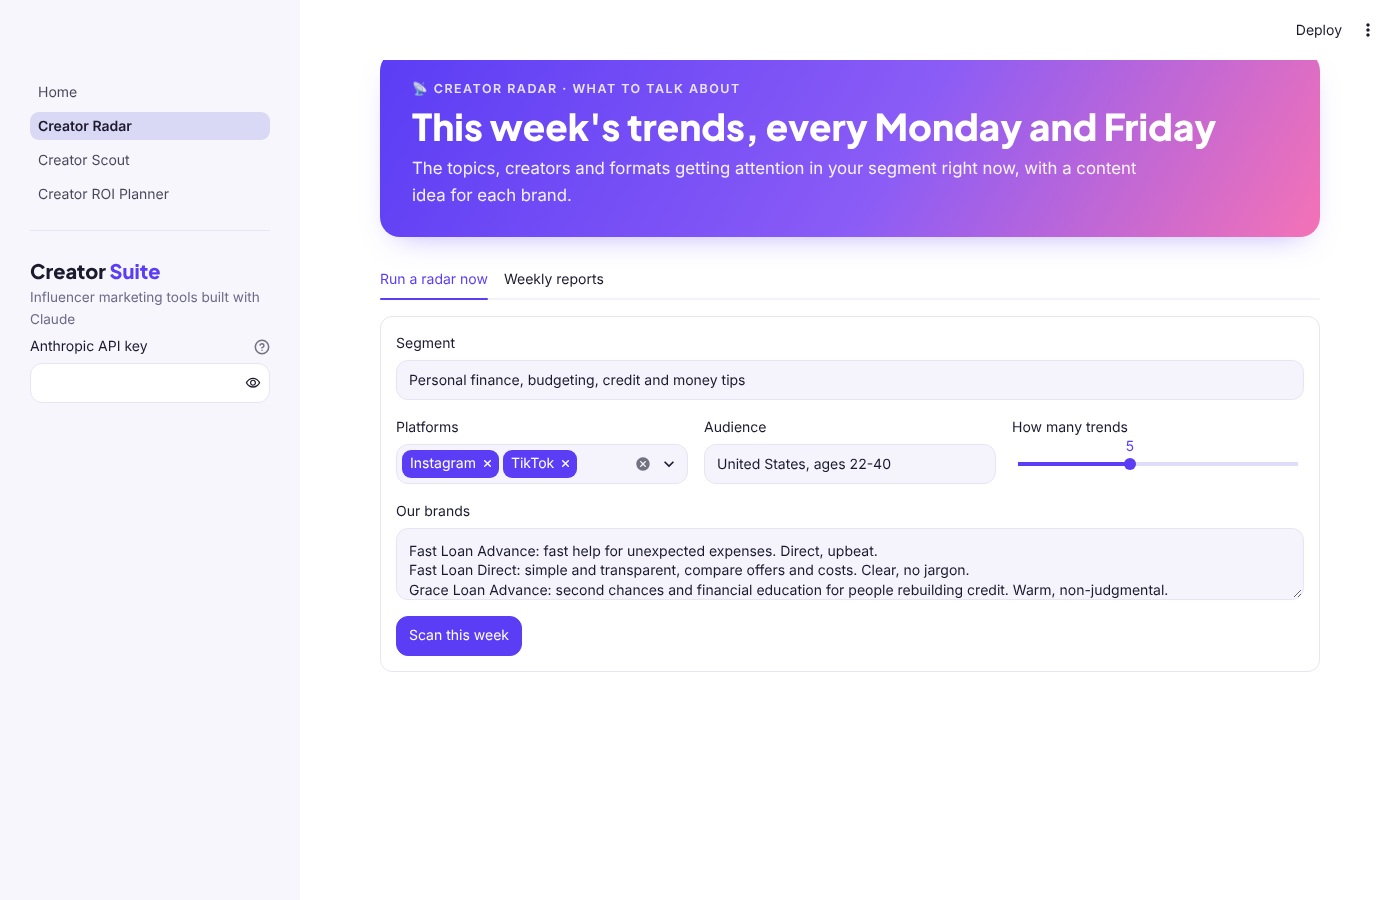
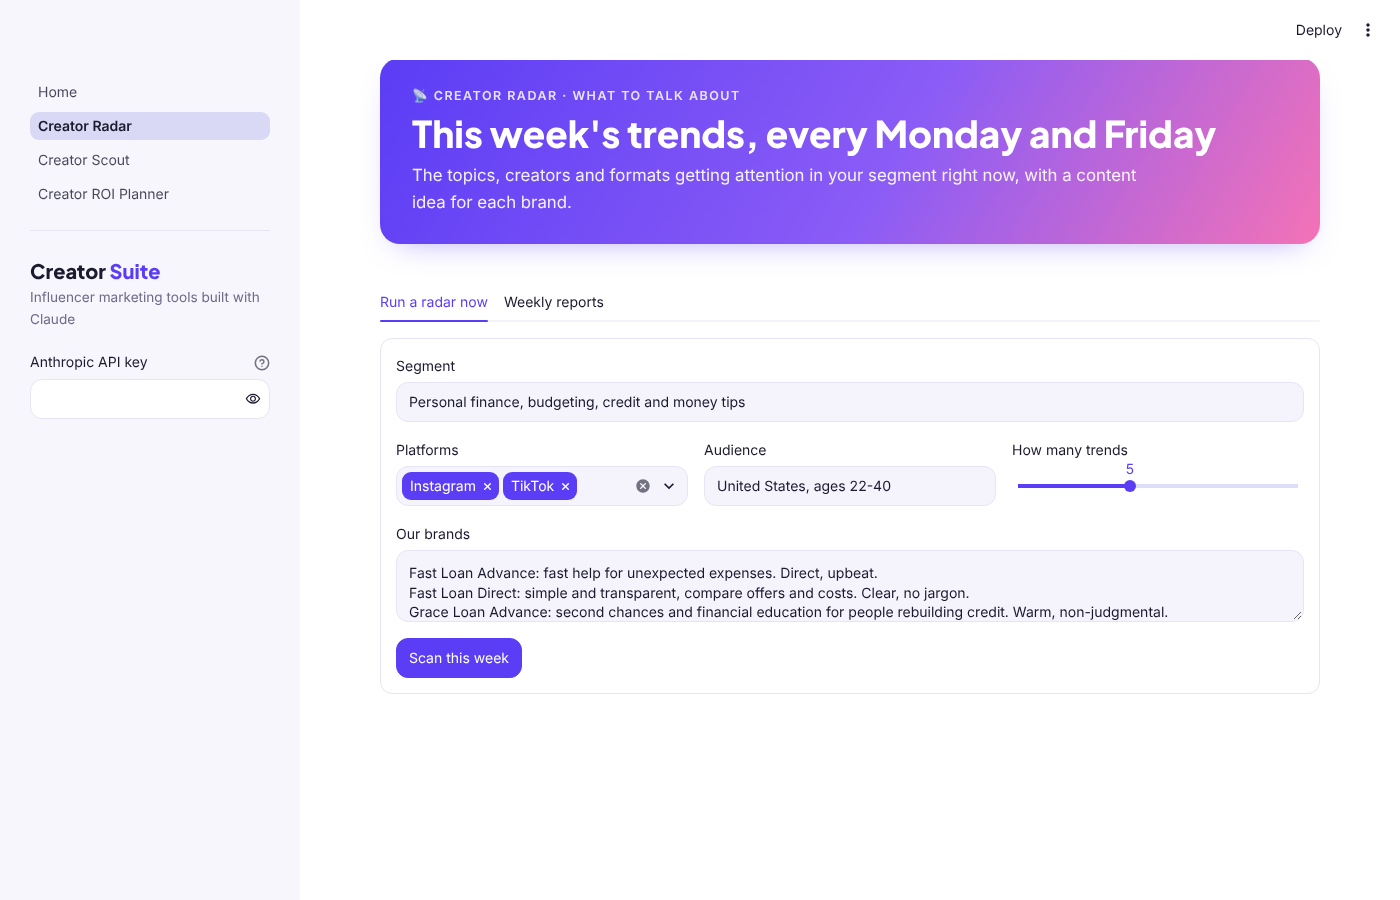
Render custom HTML with st.html and pin package versions
st.markdown with unsafe_allow_html showed the styles as plain text on
Streamlit Cloud. st.html renders them directly, and pinned versions keep
Cloud on the same packages the app was tested with.

Claude-Session: https://claude.ai/code/session_01GsFj1HvsasgLCrXsYE9AYZ

diff --git a/core/ui.py b/core/ui.py
@@ -39,29 +39,26 @@ CSS = """
 def setup(page_title: str, icon: str) -> None:
     """Call first on every page."""
     st.set_page_config(page_title=f"{page_title} · Creator Suite", page_icon=icon, layout="wide")
-    st.markdown(CSS, unsafe_allow_html=True)
-    st.sidebar.markdown(
+    st.html(CSS)
+    st.sidebar.html(
         '<div class="brand">Creator <span>Suite</span></div>'
-        '<div class="brand-sub">Influencer marketing tools built with Claude</div>',
-        unsafe_allow_html=True,
+        '<div class="brand-sub">Influencer marketing tools built with Claude</div>'
     )
     api_key_sidebar()
 
 
 def header(eyebrow: str, title: str, subtitle: str) -> None:
-    st.markdown(
+    st.html(
         f'<div class="hero"><div class="eyebrow">{eyebrow}</div>'
-        f'<div class="title">{title}</div><p class="subtitle">{subtitle}</p></div>',
-        unsafe_allow_html=True,
+        f'<div class="title">{title}</div><p class="subtitle">{subtitle}</p></div>'
     )
 
 
 def card(icon: str, title: str, tag: str, text: str, page: str, link_label: str) -> None:
     with st.container(border=True):
-        st.markdown(
+        st.html(
             f'<div class="card-icon">{icon}</div><div class="card-title">{title}</div>'
-            f'<div class="card-tag">{tag}</div><div class="card-text">{text}</div>',
-            unsafe_allow_html=True,
+            f'<div class="card-tag">{tag}</div><div class="card-text">{text}</div>'
         )
         st.page_link(page, label=link_label, icon=":material/arrow_forward:")
 
@@ -72,4 +69,4 @@ def steps(items: list[str]) -> None:
         if i:
             parts.append('<span class="arrow">→</span>')
         parts.append(f'<span class="step">{item}</span>')
-    st.markdown(f'<div class="steps">{"".join(parts)}</div>', unsafe_allow_html=True)
+    st.html(f'<div class="steps">{"".join(parts)}</div>')
